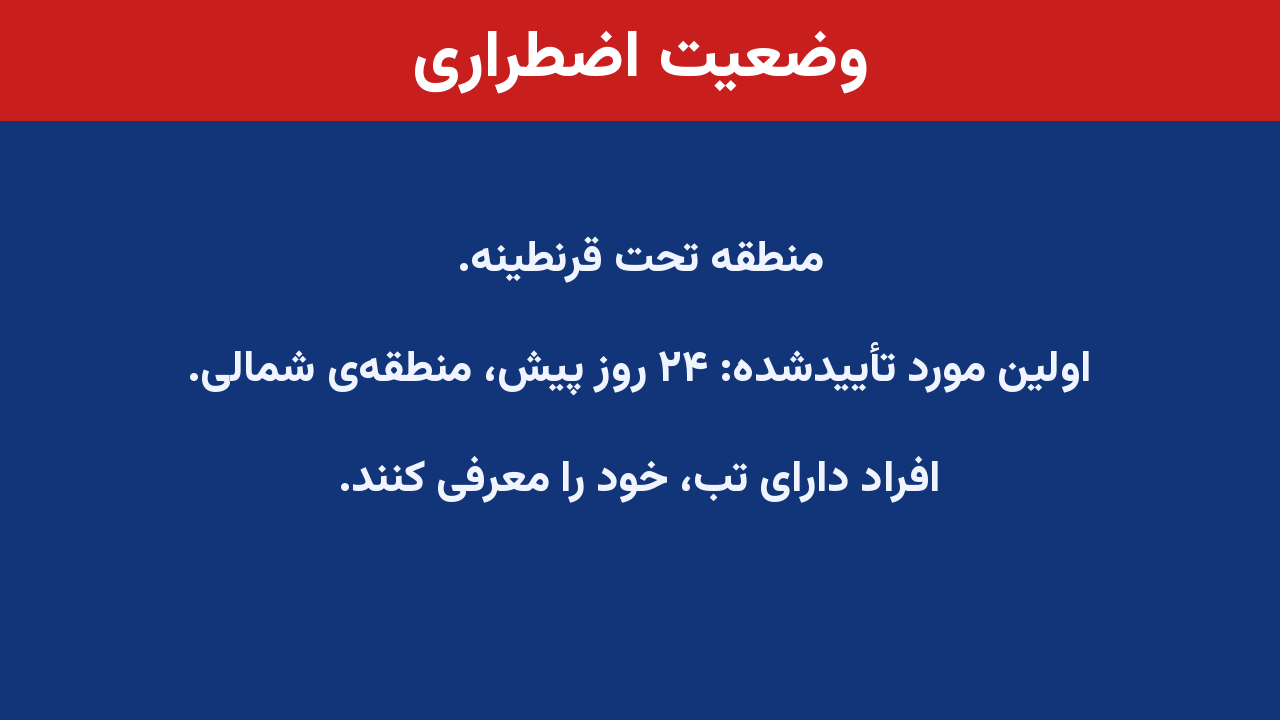
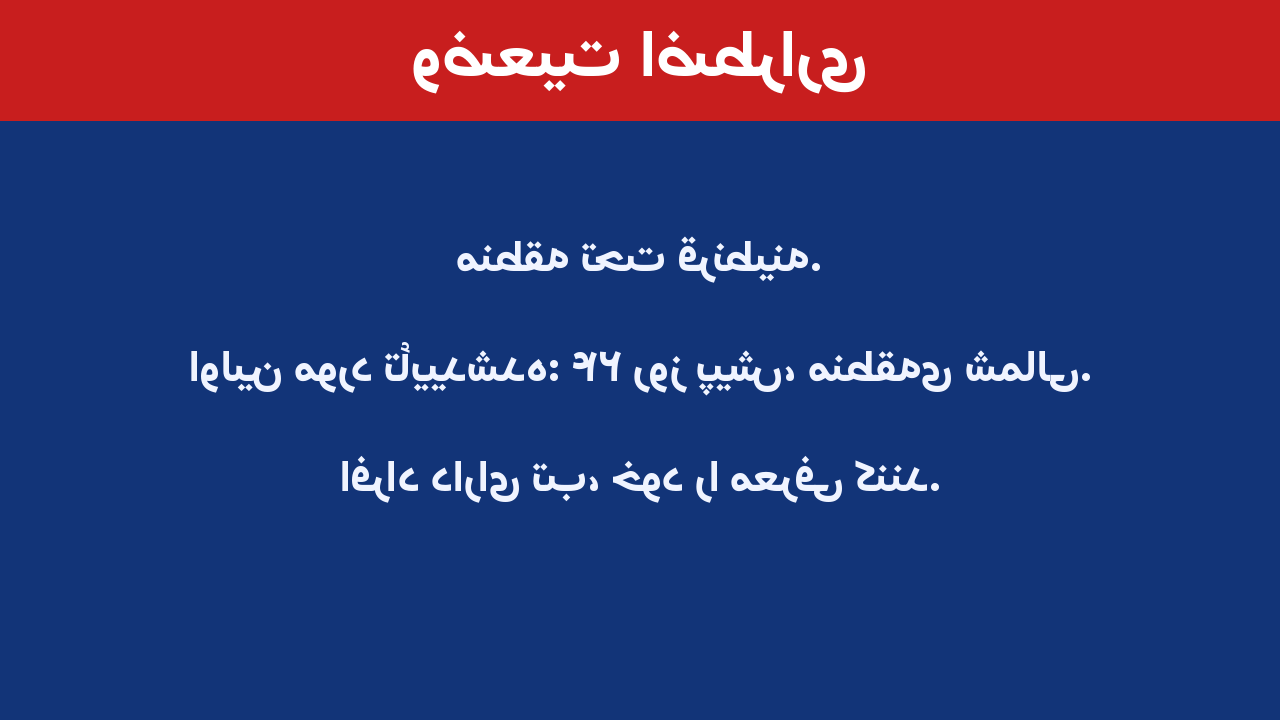
SC004: cameras aimed at measured positions per shot
Claude-Session: https://claude.ai/code/session_0195jcA6aNEjGkEhpvKfuJLv

diff --git a/blender/zombie_center/episodes/ep01/sc004.py b/blender/zombie_center/episodes/ep01/sc004.py
@@ -123,22 +123,33 @@ cut.hide_render = False; cut.keyframe_insert("hide_render", frame=U(37.7))
 # ---------------------------------------------------------------- cameras
 EV4 = [G0, U(6), U(14), U(19), U(30), U(34), U(37), U(39), U(40), G1 + 1]
 SHOTS4 = [(a, b - 1) for a, b in zip(EV4, EV4[1:])]
-hd0 = head(drv, U(3)); ah = a_head
-mid = (hd0 + ah) / 2; sd = (hd0 - ah).cross(Vector((0, 0, 1))).normalized()
-cam("CAM4_S1_ECU", mid + sd * 0.55 + Vector((0, 0, 0.04)), mid, 85, SHOTS4[0][0], (0.55, 2.0))
-hd1 = head(drv, U(10))
-cam("CAM4_S2_CU", hd1 + sd * 1.1 + Vector((0, 0, 0.1)), hd1 - Vector((0, 0, 0.2)), 50, SHOTS4[1][0], (1.1, 2.4))
-cam("CAM4_S3_wide", Vector((a_head.x, a_head.y, 0.25)) - body_dir * 0.4 + sd * 0.5, Vector((30.0, 22.6, 1.0)), 28, SHOTS4[2][0], (6.0, 5.6))
+Z = Vector((0, 0, 1))
+
+
+def side_of(a, b):                                  # horizontal direction perpendicular to a->b
+    v = Vector(((b - a).x, (b - a).y, 0)).normalized()
+    return v.cross(Z).normalized()
+
+
+hd0 = head(drv, U(3)); ah = head(arin, U(3))
+sd = side_of(ah, hd0)
+mid = (hd0 + ah) / 2
+c1 = mid + sd * 1.05 + Z * 0.18
+cam("CAM4_S1_ECU", c1, mid, 85, SHOTS4[0][0], ((c1 - mid).length, 2.2))
+hd1 = head(drv, U(10.5))
+c2 = hd1 + sd * 1.7 + Z * 0.15
+cam("CAM4_S2_CU", c2, hd1 - Z * 0.15, 50, SHOTS4[1][0], ((c2 - hd1).length, 2.4))
+cam("CAM4_S3_wide", Vector((ah.x, ah.y, 0.3)) - sd * 0.6, Vector((30.0, 22.6, 1.0)), 28, SHOTS4[2][0], (6.0, 5.6))
 cam("CAM4_S4_top", (a_head + a_pel) / 2 + Vector((0.15, 0.1, 2.8)), (a_head + a_pel) / 2, 35, SHOTS4[3][0], (2.6, 2.8))
 cam("CAM4_S5_ins", ankle + Vector((0.2, -1.6, 0.35)), ankle + Vector((0.4, 0.4, 0.1)), 50, SHOTS4[4][0], (1.7, 2.8))
 cam("CAM4_S6_med", C_TO + Vector((0.5, -3.2, 1.0)), C_TO + Vector((0.3, 0.6, 0.4)), 35, SHOTS4[5][0], (3.3, 4.0))
-cam("CAM4_S7_ECU", palm + Vector((0.12, -0.35, 0.12)), palm, 85, SHOTS4[6][0], (0.39, 2.8))
-cam("CAM4_S8_med", C_TO + Vector((-0.6, -3.0, 1.1)), C_TO + Vector((0, 0, 0.9)), 35, SHOTS4[7][0], (3.1, 4.0))
-cam("CAM4_S9_wide", SHOP + Vector((-5.0, 3.4, 1.4)), SHOP + Vector((0.4, 1.0, 0.3)), 35, SHOTS4[8][0], (6.0, 4.0))
-
-import json
-os.makedirs(os.path.join(HERE, "out", "sc004"), exist_ok=True)
-json.dump(dict(G0=G0, G1=G1, SHOTS=SHOTS4), open(os.path.join(HERE, "out", "sc004", "events.json"), "w"))
+c7 = palm + Vector((0.22, -0.42, 0.32))
+cam("CAM4_S7_ECU", c7, palm, 85, SHOTS4[6][0], ((c7 - palm).length, 2.8))
+a8 = head(arin, U(39.5))
+cam("CAM4_S8_med", a8 + Vector((0.6, -3.0, -0.3)), a8 - Z * 0.4, 35, SHOTS4[7][0], (3.1, 4.0))
+cr = head(crawler, U(43.0))
+c9 = cr + Vector((-3.6, 2.6, 1.0))
+cam("CAM4_S9_wide", c9, cr - Z * 0.1, 35, SHOTS4[8][0], ((c9 - cr).length, 4.0))
 
 # ---------------------------------------------------------------- render
 OUT4 = os.path.join(HERE, "out", "sc004"); os.makedirs(OUT4, exist_ok=True)
